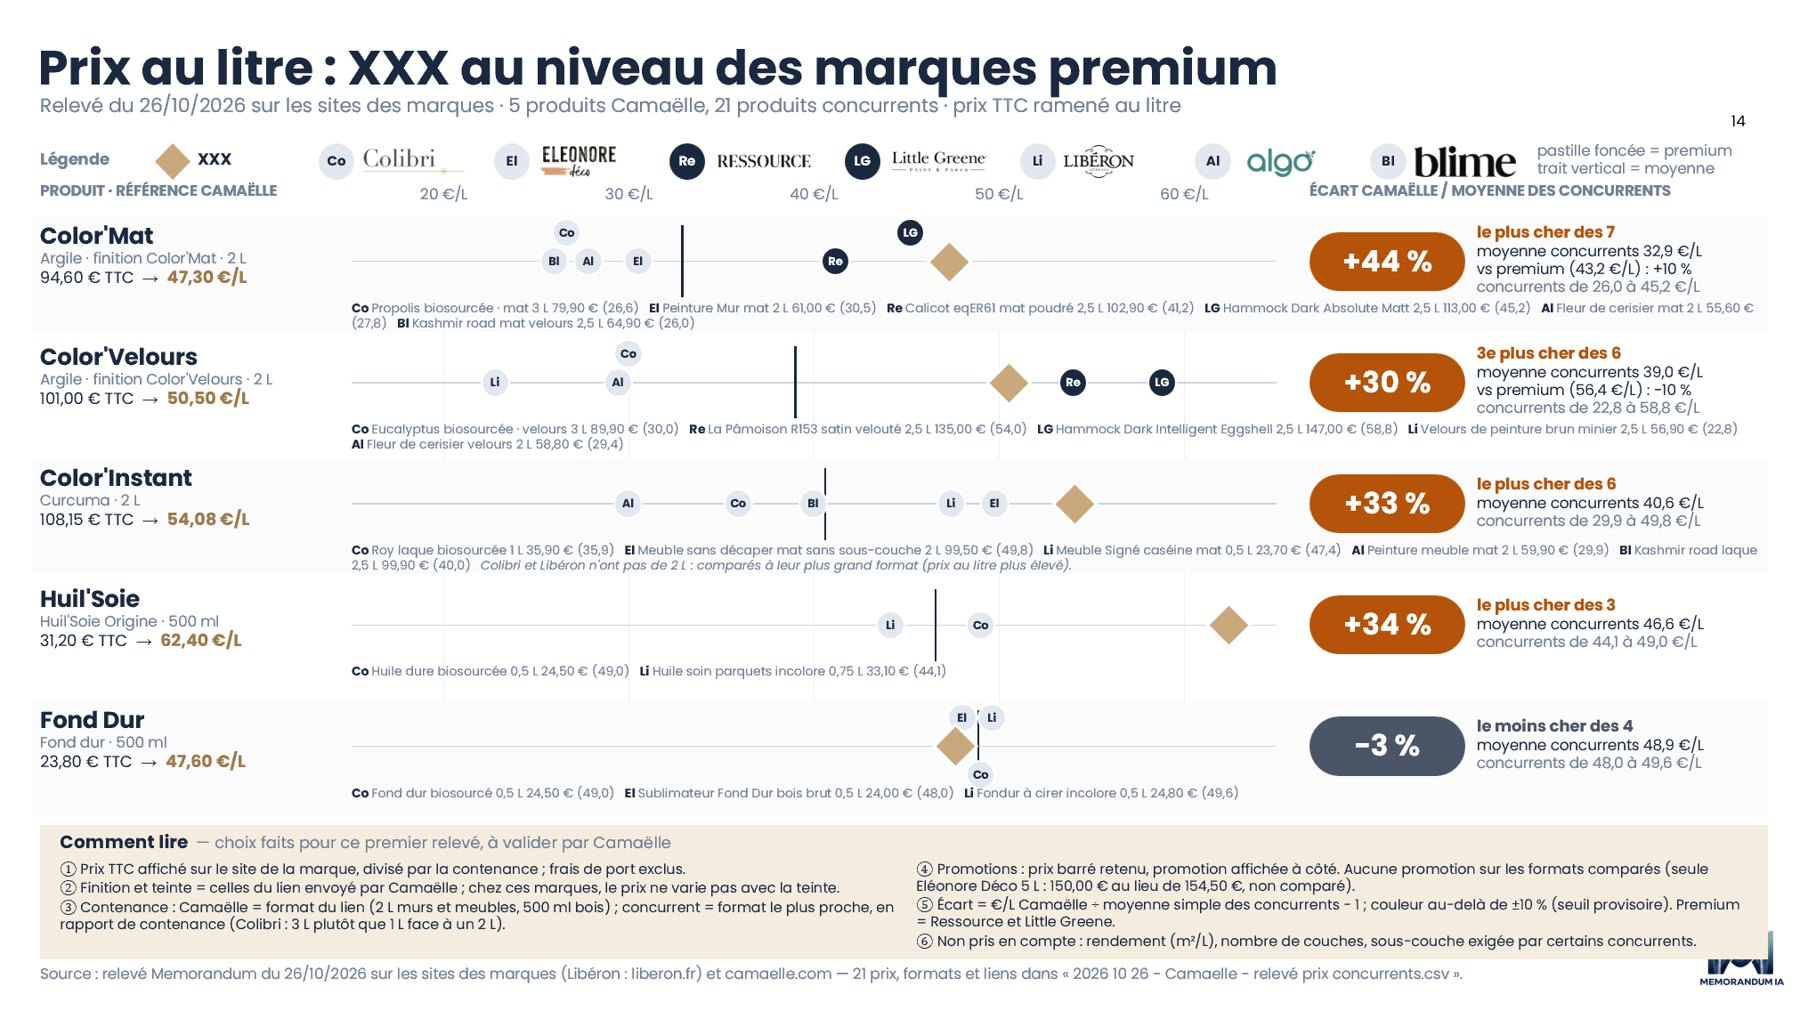
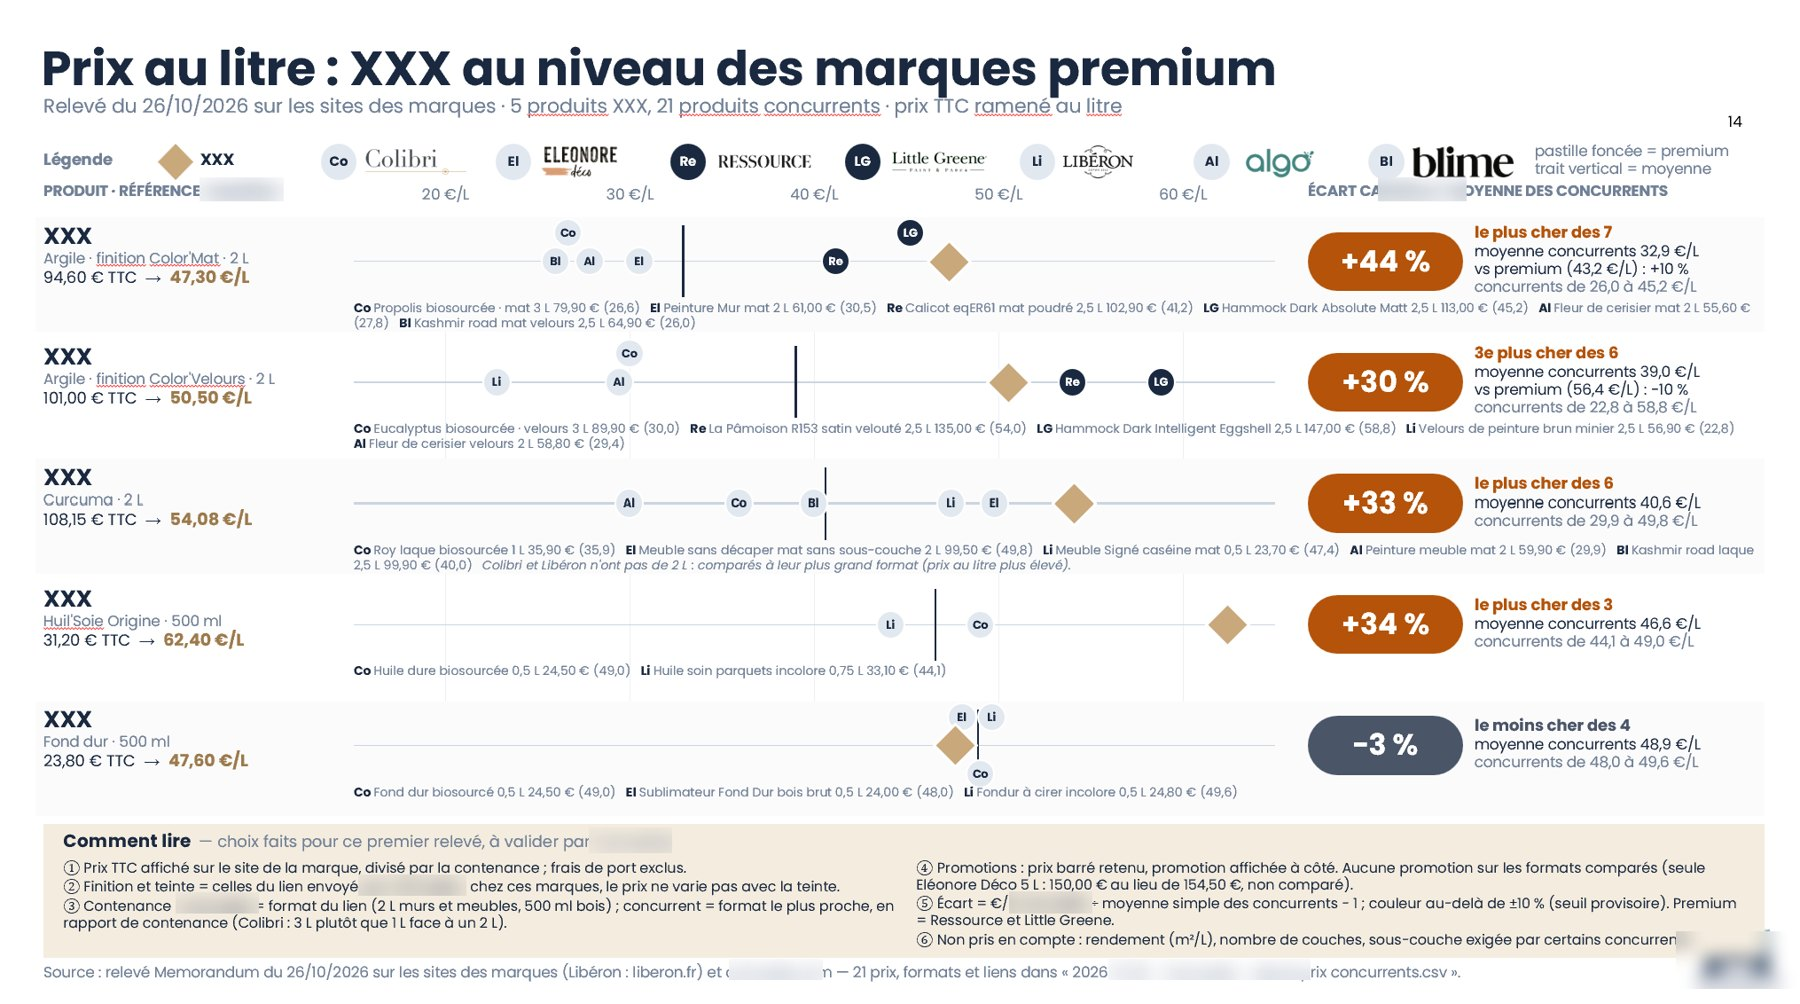
Réalisations : comparaison de prix mieux anonymisée (mentions du client floutées, légende anonyme)
Claude-Session: https://claude.ai/code/session_019uZJ1gCAkcpfRRLP7X6fgW

diff --git a/components/Maquette.jsx b/components/Maquette.jsx
@@ -14,7 +14,7 @@ export const CHIFFRES = [
 
 export const REALISATIONS = [
   { img: '/realisations/eklalight-cctp.jpg', qui: 'Eklalight · grossiste en luminaires', titre: 'Analyse de cahier des charges et devis', chip: 'En production', alt: 'Outil d’analyse de CCTP : besoins, références fournisseurs proposées, création du devis' },
-  { img: '/realisations/camaelle-prix-litre.jpg', qui: 'Camaëlle · peintures et finitions', titre: 'Positionnement prix face aux concurrents', chip: 'Analyse livrée', alt: 'Comparaison des prix au litre de 5 produits face à 21 produits concurrents', pos: 'top left' },
+  { img: '/realisations/camaelle-prix-litre.jpg', qui: 'Fabricant de peintures et finitions', titre: 'Positionnement prix face aux concurrents', chip: 'Analyse livrée', alt: 'Comparaison des prix au litre de 5 produits face à 21 produits concurrents', pos: 'top left' },
   { img: '/realisations/peinture-chiffrage.jpg', qui: 'Entreprise de peinture', titre: 'Chiffrage d’un lot sur plan', chip: 'Prototype', alt: 'Outil de chiffrage : repérage des surfaces sur plan, comparaison avec le DPGF' },
 ];
 
